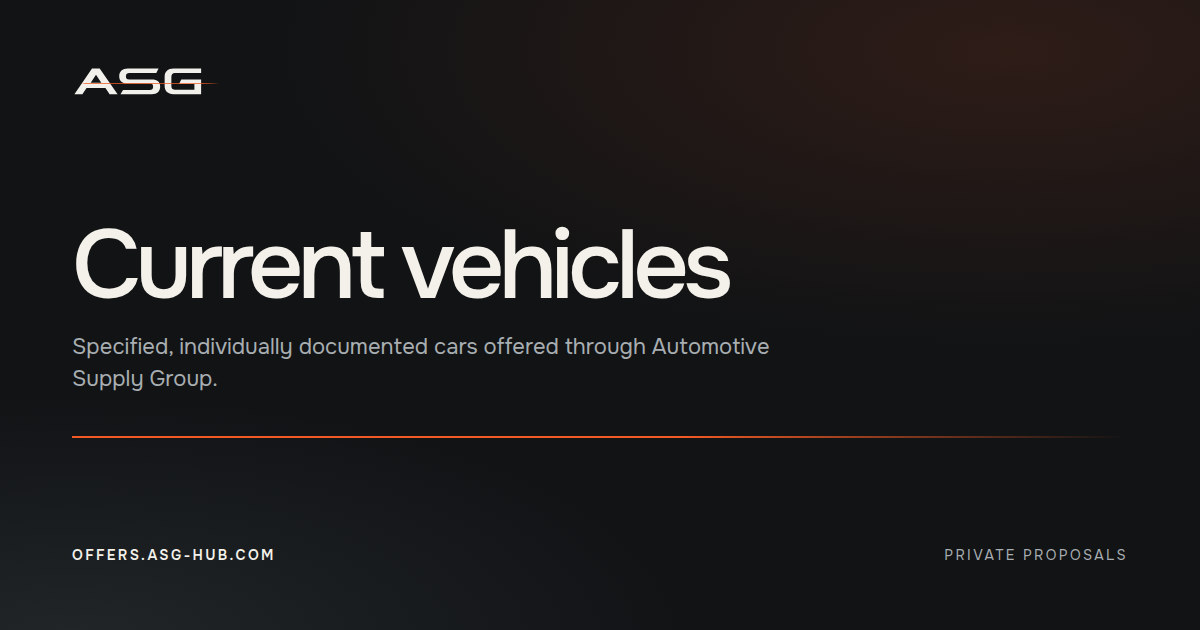
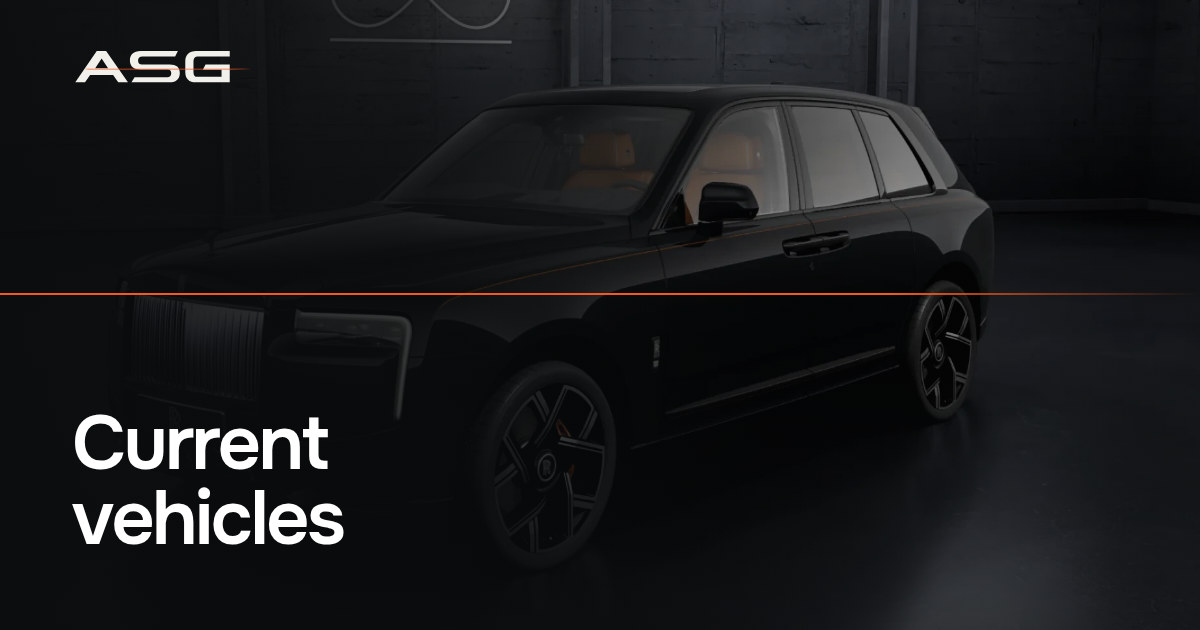
Build the catalogue share card like an offer card
The typographic card did not look like the previews the offers themselves
produce, which is the look we want when the link is dropped into WhatsApp or
Telegram. tools/share-card.html now follows the offer formula: the photo full
bleed, the hero veil, the ASG mark without its subtitle, the coachline, the
title bottom-left. Swapping the car means changing one src.

"Updated" in the header now reports when the shelf last changed rather than
when the script last ran, so an unrelated rebuild no longer moves the date.

Claude-Session: https://claude.ai/code/session_01LzLfSd7oL8VTCB4WAnLsn5

diff --git a/tools/share-card.html b/tools/share-card.html
@@ -3,40 +3,33 @@
 <head>
 <meta charset="utf-8">
 <title>ASG catalogue link preview</title>
+<!-- Source for the catalogue's share.jpg (1200x630). Same formula as an offer
+     card: the photo full-bleed, the hero veil over it, the ASG mark without its
+     subtitle, the coachline, and the title bottom-left. Change PHOTO below to
+     use another car, re-render at 1200x630 and save over share.jpg. -->
 <style>
   @font-face { font-family:"Onest"; src:url("../assets/Onest.ttf") format("truetype"); font-weight:100 900; }
   * { box-sizing:border-box; margin:0; }
   html { width:1200px; height:630px; }
-  body {
-    position:relative; width:1200px; height:630px; overflow:hidden; padding:66px 72px;
-    display:grid; grid-template-rows:auto 1fr auto;
-    color:#f4f1ea; background:#111315;
-    font-family:"Onest", sans-serif;
-  }
-  .veil {
-    position:absolute; inset:0;
-    background:radial-gradient(110% 85% at 84% 8%, rgba(241,90,36,0.13), transparent 56%),
-               radial-gradient(85% 65% at 6% 102%, rgba(50,56,60,0.5), transparent 60%);
-  }
-  .mark, .body, .foot { position:relative; }
-  .mark { width:152px; height:32px; }
-  .body { align-self:center; padding-top:18px; }
-  h1 { font-size:98px; line-height:0.86; font-weight:520; letter-spacing:-0.062em; }
-  .lead { margin-top:24px; max-width:700px; color:#a8aeb1; font-size:22px; line-height:1.45; }
-  .rule { height:2px; margin-top:40px; background:linear-gradient(90deg,#f15a24 0,#f15a24 58%,rgba(241,90,36,0) 100%); }
-  .foot { display:flex; justify-content:space-between; align-items:baseline;
-          color:#a8aeb1; font-size:14px; letter-spacing:0.17em; text-transform:uppercase; }
-  .foot b { color:#f4f1ea; font-weight:600; }
+  body { position:relative; width:1200px; height:630px; overflow:hidden;
+         color:#fff; background:#0a0c0d; font-family:"Onest", sans-serif; }
+  .photo { position:absolute; inset:0; width:100%; height:100%; object-fit:cover;
+           object-position:50% 52%; filter:saturate(0.92) contrast(1.045) brightness(0.965); }
+  .veil { position:absolute; inset:0;
+          background:linear-gradient(90deg, rgba(10,12,13,0.96) 0%, rgba(10,12,13,0.82) 34%, rgba(10,12,13,0.25) 64%, rgba(10,12,13,0.34) 100%),
+                     linear-gradient(0deg, rgba(10,12,13,0.68), transparent 46%); }
+  .coachline { position:absolute; left:0; right:0; top:46.5%; height:2px;
+               background:linear-gradient(90deg, #f15a24 0, #f15a24 74%, rgba(241,90,36,0) 100%); }
+  .mark { position:absolute; left:72px; top:48px; width:186px; height:39px; }
+  h1 { position:absolute; left:72px; bottom:74px; width:760px;
+       font-size:76px; line-height:0.98; font-weight:600; letter-spacing:-0.035em; }
 </style>
 </head>
 <body>
+  <img class="photo" src="../o/txn45g/assets/media/01.webp" alt="">
   <span class="veil"></span>
+  <span class="coachline"></span>
   <img class="mark" src="../assets/brand/asg-lockup-mark.svg" alt="">
-  <div class="body">
-    <h1>Current vehicles</h1>
-    <p class="lead">Specified, individually documented cars offered through Automotive Supply Group.</p>
-    <div class="rule"></div>
-  </div>
-  <p class="foot"><b>offers.asg-hub.com</b><span>Private proposals</span></p>
+  <h1>Current<br>vehicles</h1>
 </body>
 </html>

diff --git a/index.html b/index.html
@@ -44,7 +44,7 @@
         <path fill="#F15A24" d="M62 76.125C66 75.4 70 75 74 75h361c20 0 39 .4 57 1.125-18 .725-37 1.125-57 1.125H74c-4 0-8-.4-12-1.125Z"></path>
       </svg>
     </span>
-    <p class="topbar__meta"><b class="asg-data">07</b><span>vehicles · updated 21 Sept 2026</span></p>
+    <p class="topbar__meta"><b class="asg-data">07</b><span>vehicles · updated 18 Sept 2026</span></p>
   </header>
 
   <main id="main">
